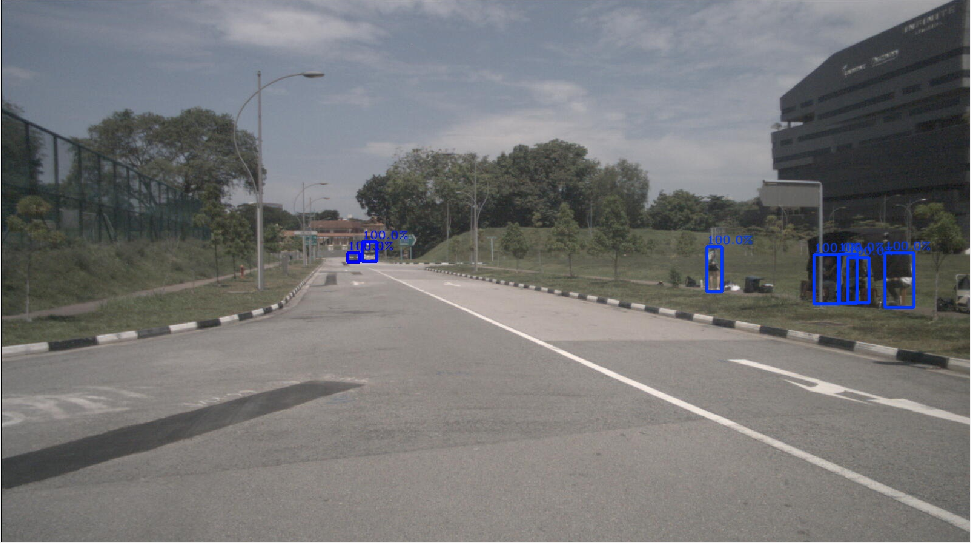
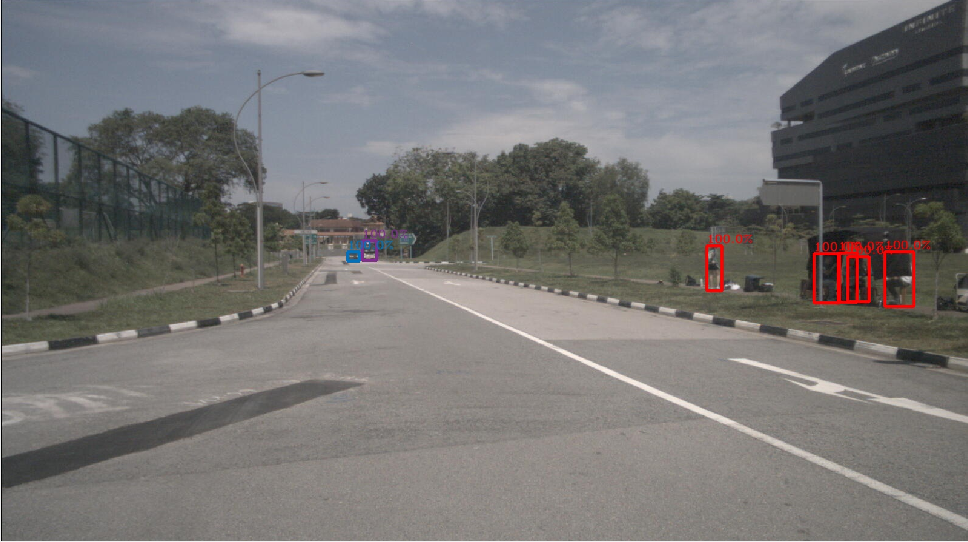
feat: update color map and segmentation rendering color

diff --git a/mmrviz/include/mmrviz/color_map.hpp b/mmrviz/include/mmrviz/color_map.hpp
@@ -16,37 +16,57 @@
 #define MMRVIZ__COLOR_MAP_HPP_
 
 #include <opencv2/core/mat.hpp>
-#include <opencv2/core/matx.hpp>
 #include <opencv2/core/types.hpp>
 #include <opencv2/imgproc.hpp>
 
-#include <opencv2/core/hal/interface.h>
-
+#include <array>
 #include <cstddef>
+
 namespace mmrviz
 {
 class ColorMap
 {
 public:
-  static const size_t num_color = 512;
+  static const size_t num_color = 80;
 
   ColorMap()
   {
-    cv::Mat src = cv::Mat::zeros(cv::Size(num_color, 1), CV_8UC1);
-    for (size_t i = 0; i < num_color; ++i) {
-      src.at<unsigned char>(0, i) = i;
+    table_ = {{{0, 114, 189},   {217, 83, 25},   {237, 177, 32},  {126, 47, 142},  {119, 172, 48},
+               {77, 190, 238},  {162, 20, 47},   {76, 76, 76},    {153, 153, 153}, {255, 0, 0},
+               {255, 128, 0},   {191, 191, 0},   {0, 255, 0},     {0, 0, 255},     {170, 0, 255},
+               {85, 85, 0},     {85, 170, 0},    {85, 255, 0},    {170, 85, 0},    {170, 170, 0},
+               {170, 255, 0},   {255, 85, 0},    {255, 170, 0},   {255, 255, 0},   {0, 85, 128},
+               {0, 170, 128},   {0, 255, 128},   {85, 0, 128},    {85, 85, 128},   {85, 170, 128},
+               {85, 255, 128},  {170, 0, 128},   {170, 85, 128},  {170, 170, 128}, {170, 255, 128},
+               {255, 0, 128},   {255, 85, 128},  {255, 170, 128}, {255, 255, 128}, {0, 85, 255},
+               {0, 170, 255},   {0, 255, 255},   {85, 0, 255},    {85, 85, 255},   {85, 170, 255},
+               {85, 255, 255},  {170, 0, 255},   {170, 85, 255},  {170, 170, 255}, {170, 255, 255},
+               {255, 0, 255},   {255, 85, 255},  {255, 170, 255}, {85, 0, 0},      {128, 0, 0},
+               {170, 0, 0},     {212, 0, 0},     {255, 0, 0},     {0, 43, 0},      {0, 85, 0},
+               {0, 128, 0},     {0, 170, 0},     {0, 212, 0},     {0, 255, 0},     {0, 0, 43},
+               {0, 0, 85},      {0, 0, 128},     {0, 0, 170},     {0, 0, 212},     {0, 0, 255},
+               {0, 0, 0},       {36, 36, 36},    {73, 73, 73},    {109, 109, 109}, {145, 145, 145},
+               {182, 182, 182}, {219, 219, 219}, {0, 100, 189},   {80, 183, 189},  {128, 128, 0}}};
+
+    lut_ = cv::Mat(256, 1, CV_8UC3);
+    for (int i = 0; i < 256; ++i) {
+      auto color = table_[i % num_color];
+      lut_.at<cv::Vec3b>(i, 0) = cv::Vec3b(
+        static_cast<uchar>(color[0]), static_cast<uchar>(color[1]), static_cast<uchar>(color[2]));
     }
-    cv::applyColorMap(src, table_, cv::COLORMAP_HSV);
   }
 
   cv::Scalar operator()(size_t index)
   {
     size_t idx = index % num_color;
-    return table_.at<cv::Vec3b>(0, idx);
+    return table_.at(idx);
   }
 
+  const cv::Mat & getLookUpTable() const noexcept { return lut_; }
+
 private:
-  cv::Mat table_;
+  std::array<cv::Scalar, num_color> table_;
+  cv::Mat lut_;
 };
 }  // namespace mmrviz
 #endif  // MMRVIZ__COLOR_MAP_HPP_

diff --git a/mmrviz/include/mmrviz/visualizer/segmentation2d_visualizer.hpp b/mmrviz/include/mmrviz/visualizer/segmentation2d_visualizer.hpp
@@ -15,6 +15,8 @@
 #ifndef MMRVIZ__VISUALIZER__SEGMENTATION2D_VISUALIZER_HPP_
 #define MMRVIZ__VISUALIZER__SEGMENTATION2D_VISUALIZER_HPP_
 
+#include "mmrviz/color_map.hpp"
+
 #include <image_transport/publisher.hpp>
 #include <image_transport/subscriber_filter.hpp>
 #include <rclcpp/node.hpp>
@@ -57,6 +59,7 @@ private:
   std::shared_ptr<ExactTimeSync> sync_ptr_;
 
   image_transport::Publisher pub_;
+  ColorMap color_map_;
 };
 }  // namespace mmrviz::visualizer
 #endif  // MMRVIZ__VISUALIZER__SEGMENTATION2D_VISUALIZER_HPP_

diff --git a/mmrviz/src/visualizer/segmentation2d_visualizer.cpp b/mmrviz/src/visualizer/segmentation2d_visualizer.cpp
@@ -96,8 +96,9 @@ void Segmentation2dVisualizer::callback(
     return;
   }
 
+  const auto & lut = color_map_.getLookUpTable();
   cv::Mat color_mask;
-  cv::applyColorMap(in_mask_ptr->image, color_mask, cv::COLORMAP_HSV);
+  cv::applyColorMap(in_mask_ptr->image, color_mask, lut);
 
   cv::Mat overlay;
   cv::addWeighted(in_image_ptr->image, 0.5, color_mask, 0.5, 1.0, overlay);
